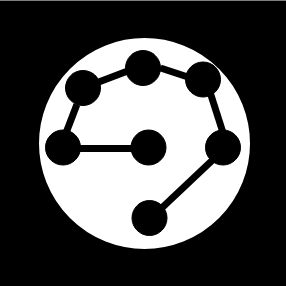
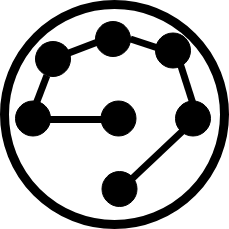
Use transparent-background defimind mark export

diff --git a/docs/process_logo.py b/docs/process_logo.py
@@ -1,0 +1,54 @@
+#!/usr/bin/env python3
+"""
+Convert defimind-mark.png from "white disc on black square" to
+"white disc on transparent background" by making all pixels
+darker than a threshold transparent.
+
+Usage:
+    python3 docs/process_logo.py
+
+Reads:  public/defimind-mark.png
+Writes: public/defimind-mark.png  (overwrites with transparent version)
+"""
+
+from pathlib import Path
+from PIL import Image
+
+REPO_ROOT = Path(__file__).resolve().parent.parent
+SRC = REPO_ROOT / "public" / "defimind-mark.png"
+DST = SRC  # overwrite in place
+
+# Pixels with all RGB channels at or below this value are treated as the
+# background and made fully transparent. Set high enough to catch the black
+# square (which is pure black or near-black after JPEG/PNG compression
+# artifacts) but low enough to preserve the dark graph elements inside the
+# white disc. The graph elements are drawn at the disc's center; the
+# threshold cutoff doesn't reach them because they're surrounded by white
+# pixels and the algorithm operates per-pixel, not per-region.
+BG_THRESHOLD = 30
+
+
+def main() -> None:
+    img = Image.open(SRC).convert("RGBA")
+    pixels = img.load()
+    w, h = img.size
+
+    changed = 0
+    for y in range(h):
+        for x in range(w):
+            r, g, b, _ = pixels[x, y]
+            if r <= BG_THRESHOLD and g <= BG_THRESHOLD and b <= BG_THRESHOLD:
+                pixels[x, y] = (0, 0, 0, 0)
+                changed += 1
+
+    img.save(DST, "PNG")
+    total = w * h
+    pct = 100 * changed / total
+    print(f"Processed {SRC}")
+    print(f"  Size: {w}x{h}")
+    print(f"  Pixels made transparent: {changed:,} of {total:,} ({pct:.1f}%)")
+    print(f"  Wrote: {DST}")
+
+
+if __name__ == "__main__":
+    main()
